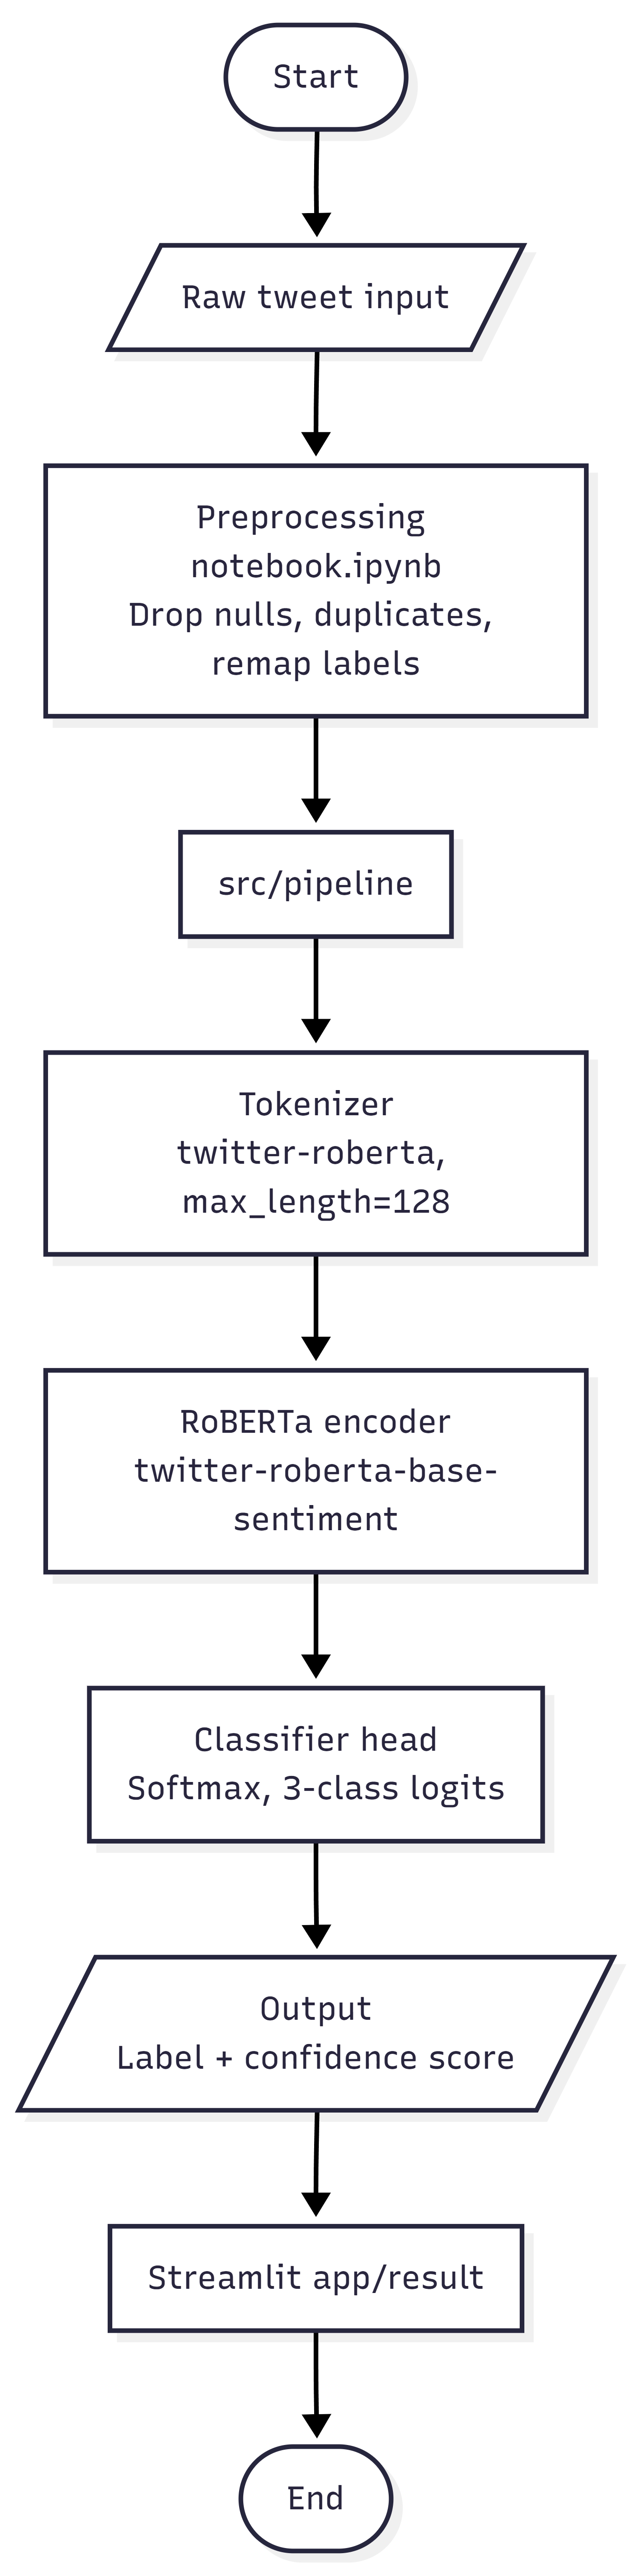
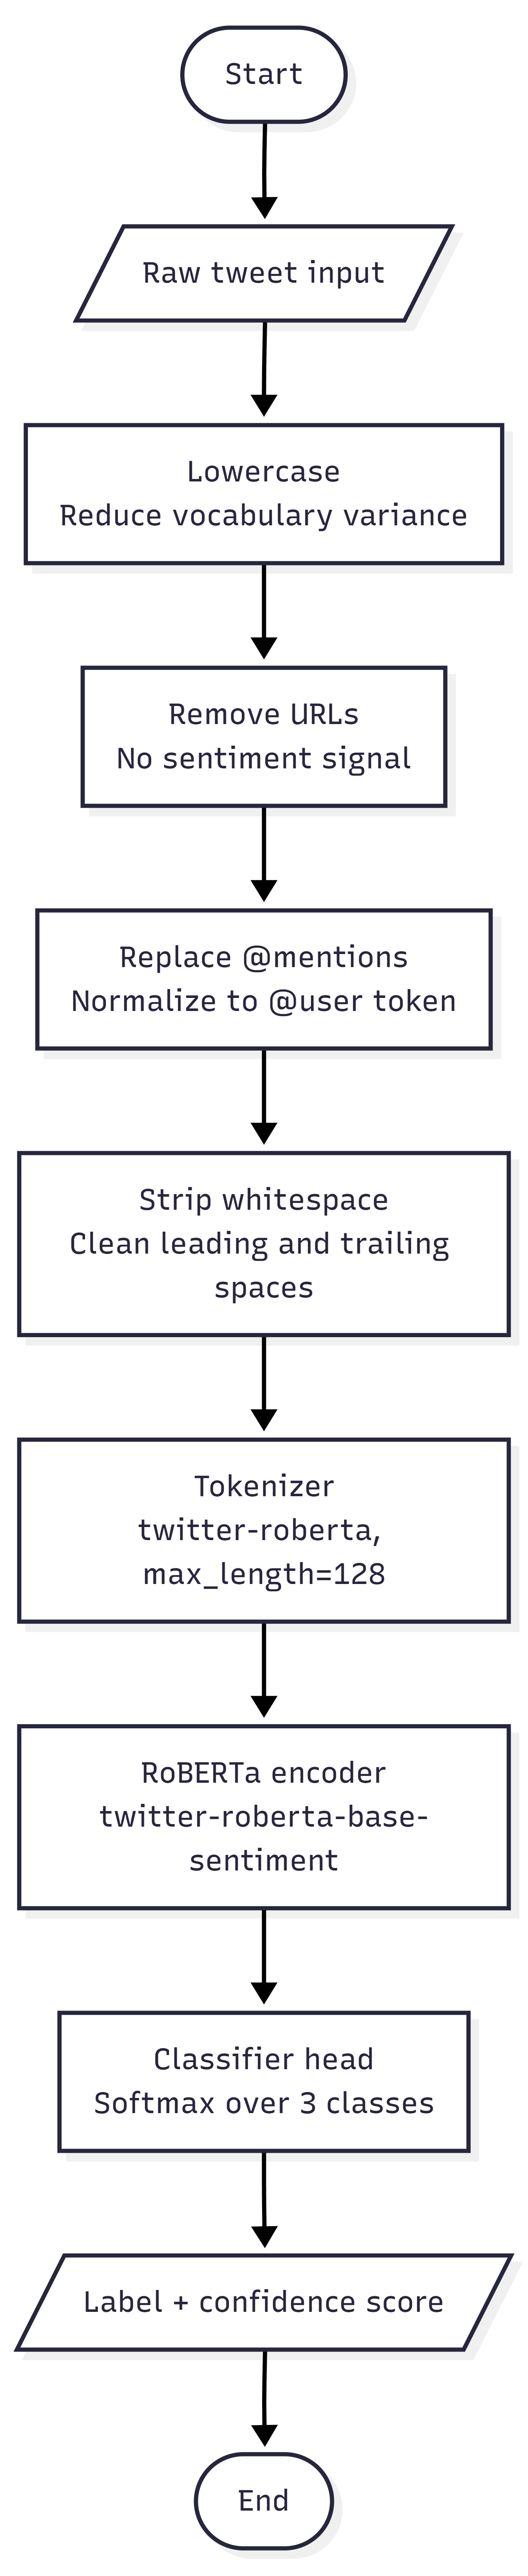
feat: add EDA notebook, README.md

diff --git a/README.md b/README.md
@@ -1,2 +1,65 @@
-# valence
-Sentiment classifier model built using [placeholder]
+# nolimit-ds-test-mahesa
+
+Twitter entity-level sentiment analysis using a pretrained HuggingFace transformer model.
+
+## Dataset
+
+- Source: [Twitter Entity Sentiment Analysis](https://www.kaggle.com/datasets/jp797498e/twitter-entity-sentiment-analysis)
+- License: CC0 Public Domain
+- The dataset contains entity-level sentiment labels for tweets: Positive, Negative, Neutral, and Irrelevant.
+- Irrelevant labels are remapped to Neutral per the dataset author definition.
+
+## Models
+
+- Classifier: cardiffnlp/twitter-roberta-base-sentiment
+- Tokenizer: cardiffnlp/twitter-roberta-base-sentiment
+- No fine-tuning was performed. The pretrained model is used directly for inference.
+
+## Project Structure
+
+```
+nolimit-ds-test-mahesa/
+├── notebook.ipynb
+├── app.py
+├── requirements.txt
+├── flowchart.png
+└── data/
+    └── sample.csv
+```
+
+## Setup
+
+1. Clone the repository
+
+```
+git clone https://github.com/mahesa005/nolimit-ds-test-mahesa.git
+cd nolimit-ds-test-mahesa
+```
+
+2. Create a virtual environment and install dependencies
+
+```
+python -m venv .venv
+source .venv/bin/activate
+pip install -r requirements.txt
+```
+
+3. Add the dataset files to the data/ folder
+
+Download twitter_training.csv and twitter_validation.csv from the Kaggle link above
+and place them in the data/ folder.
+
+## Running the Notebook
+
+Open notebook.ipynb in Jupyter or Google Colab and run all cells in order.
+A sample dataset is included in data/sample.csv for quick local verification.
+
+## Running the Streamlit App
+
+```
+streamlit run app.py
+```
+
+## Flowchart
+
+See flowchart.png for the end-to-end pipeline diagram.